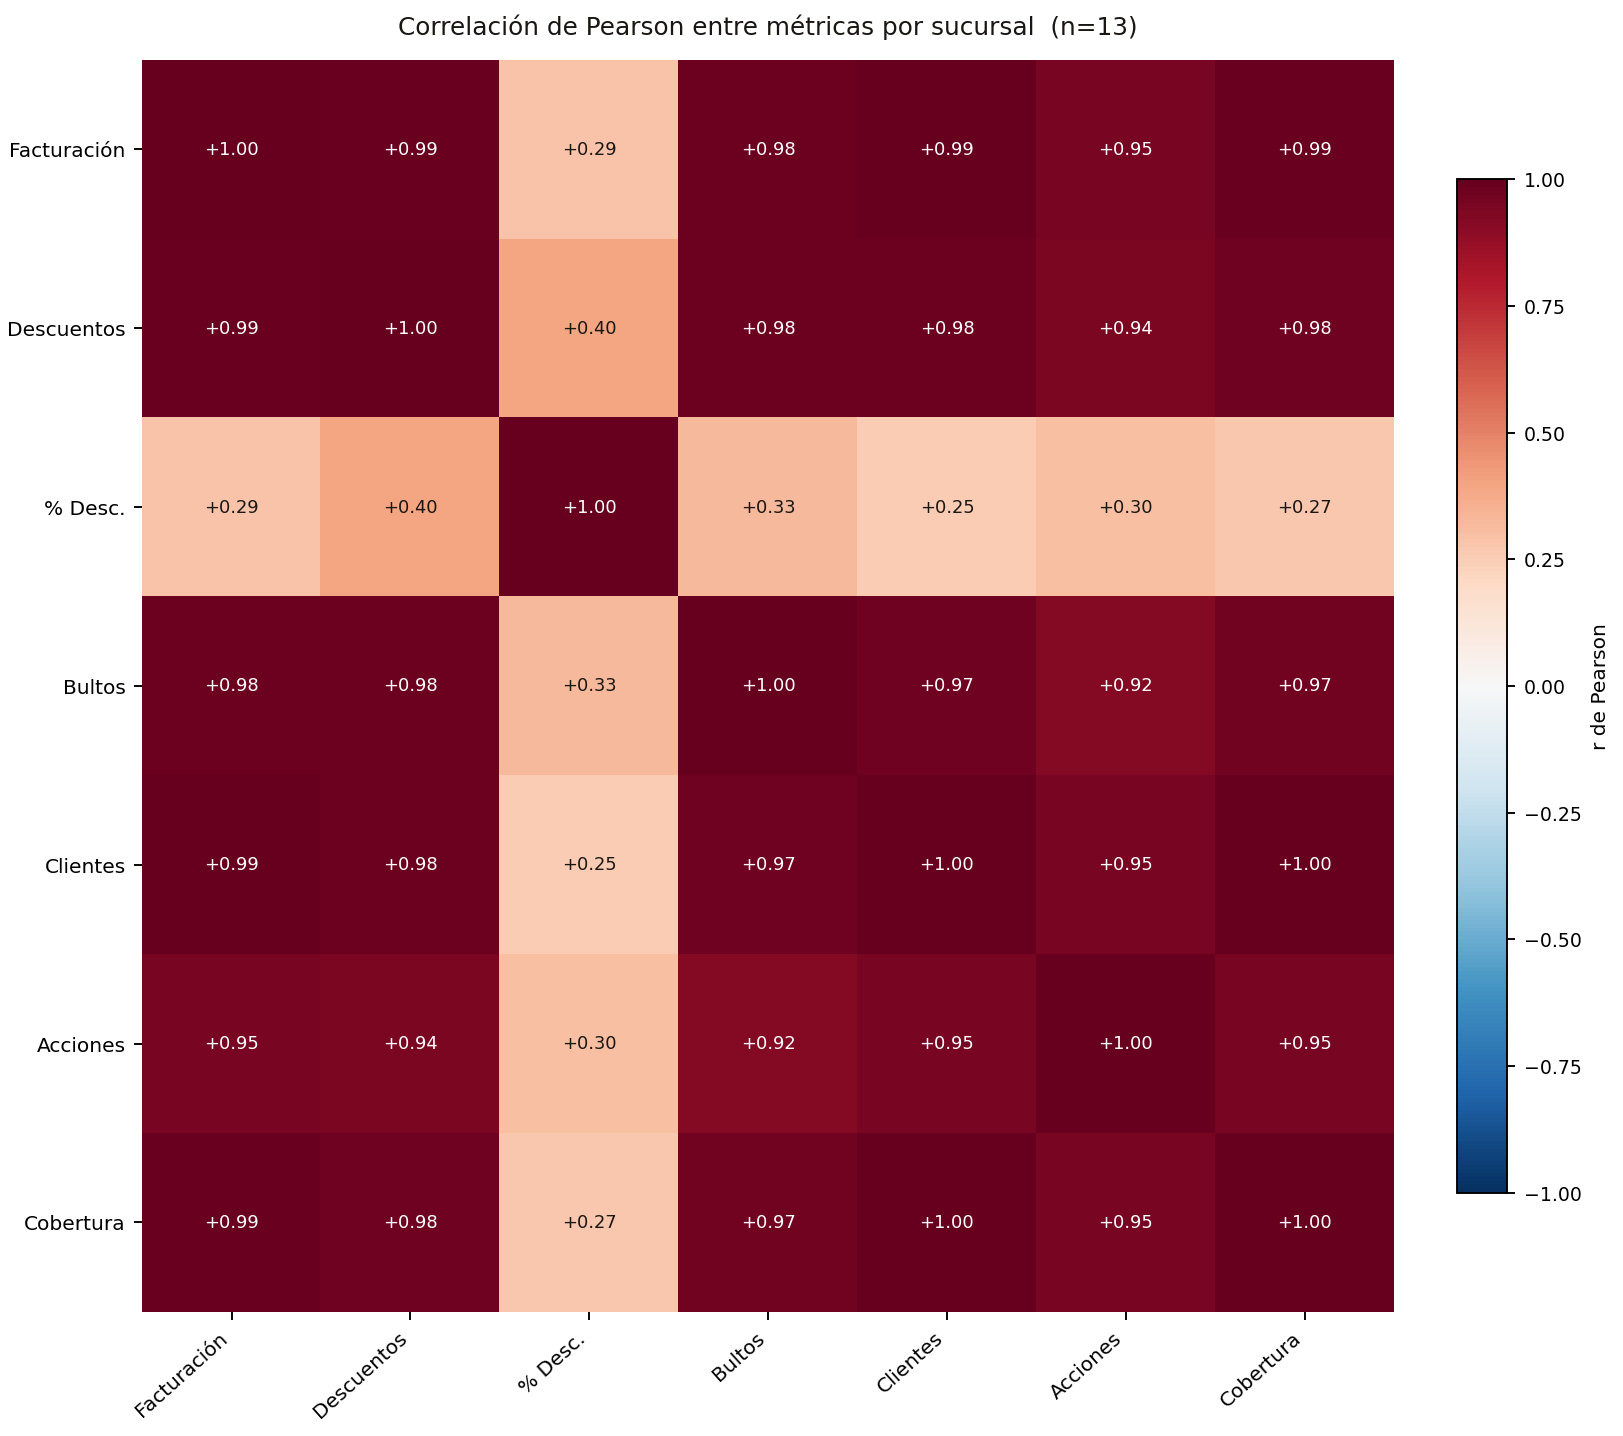
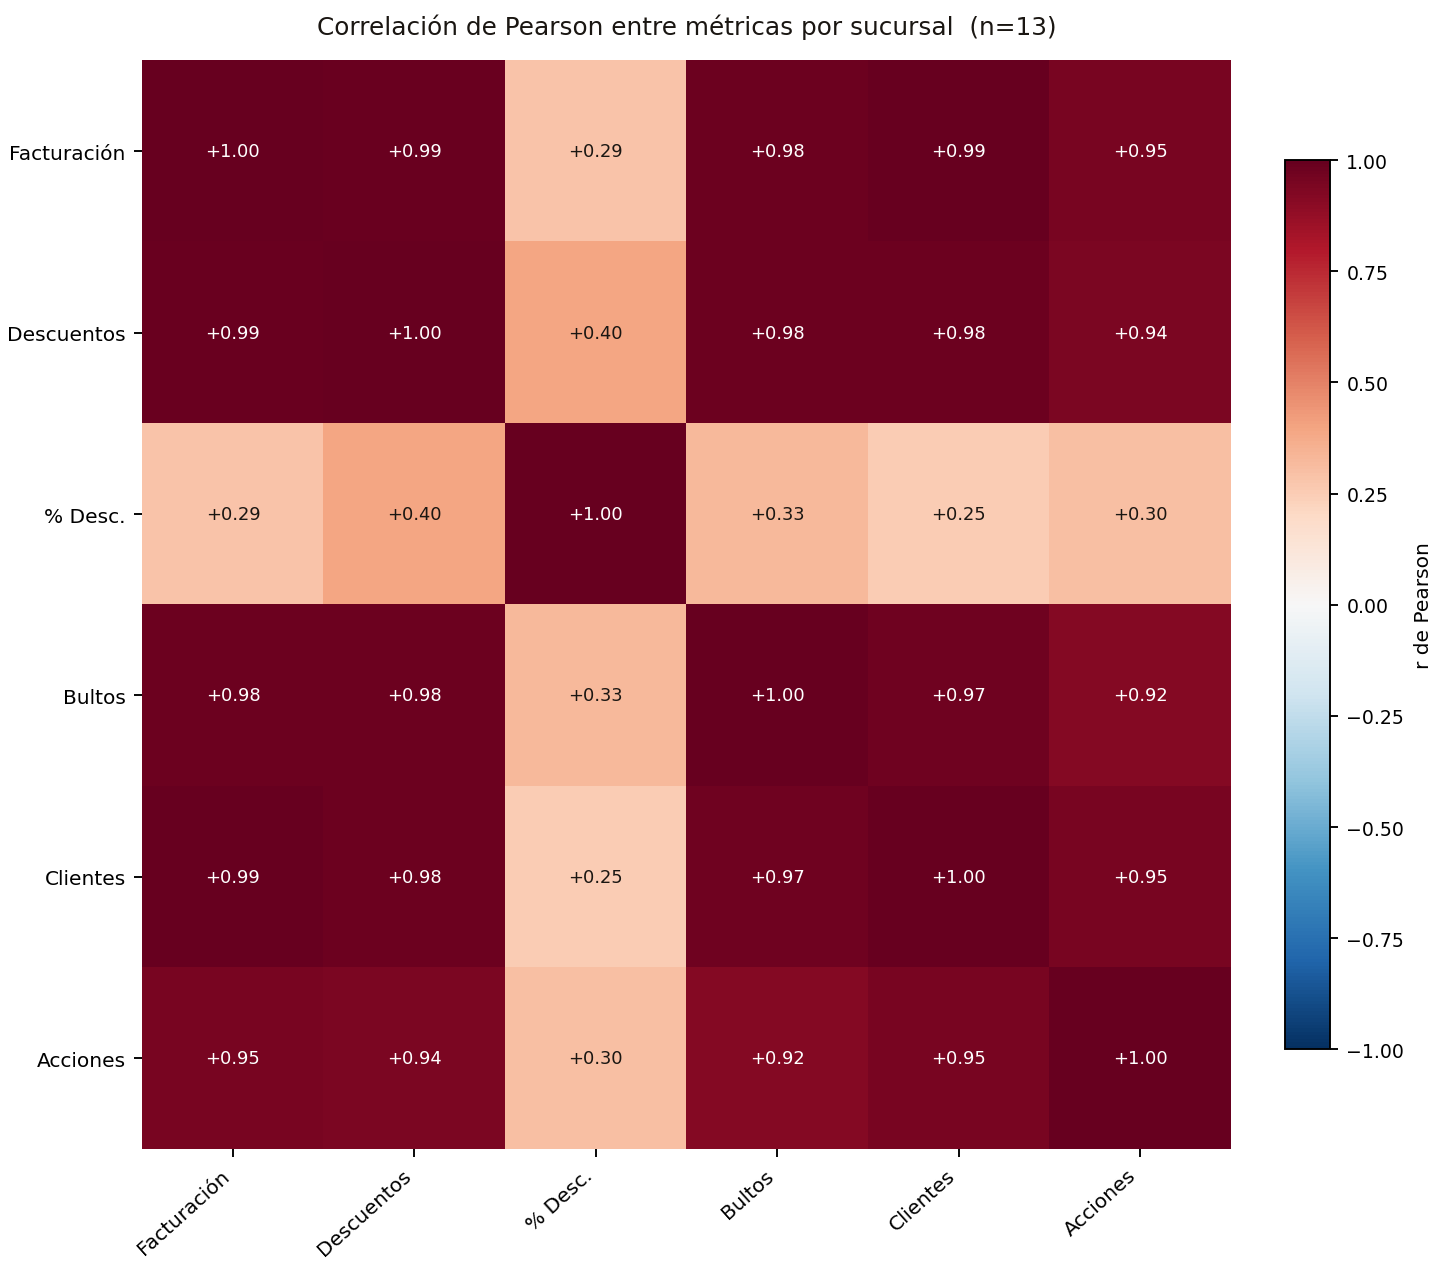
fix(acciones-comerciales): stop summing coverage, and read the report's own month
Three defects in the Cobertura sheet, found by Nahuel.

1. The period was written by hand: `WHERE periodo = '2026-07-01'`. The August
   report has been reading July coverage all month. August exists in the
   table (429 rows). It now derives from the report's own cut, so it cannot
   silently fall a month behind again.

2. Coverage was being summed. `cob.groupby("sucursal").clientes_cob.sum()`
   added up the coverage of every genérico in a sucursal, so a client buying
   four genéricos counted four times: 35,729 against 11,415 real clients,
   +213%. Coverage counts distinct clients inside a cut -- it is not additive
   across genéricos, brands or periods. That column is gone from the
   correlation matrix; the sucursal-level client count already exists,
   counted at the sucursal grain.

   The source also summed across price lists, reading
   cob_sucursal_lista_generico and grouping. Besides double-counting clients
   who buy on two lists, that cut has 130 rows against the 144 of the
   per-genérico cut, so it was also losing combinations. It now reads
   cob_sucursal_generico, already computed at the grain the sheet shows.

3. The table was truncated with `.head(60)` and had no note saying so, so its
   TOTAL row was the total of nothing. There are 120 combinations with sales;
   all of them are listed now.

The "Clientes cob." column carries no total on purpose -- the cell reads "no
sumable" and the footer explains why, so nobody restores the sum later.
[…]

diff --git a/dashboards/acciones-comerciales/build_informe_excel.py b/dashboards/acciones-comerciales/build_informe_excel.py
@@ -604,12 +604,25 @@ def load_gold():
         WHERE fv.fecha_comprobante BETWEEN '{PERIODO_DESDE}' AND '{PERIODO_HASTA}'
           AND fv.anulado = false
         GROUP BY 1,2,3""", dl.engine)
-    cob = pd.read_sql("""
-        SELECT ds_sucursal AS sucursal, generico, des_lista_precio AS lista,
-               SUM(clientes_compradores) AS clientes_cob, SUM(volumen_total) AS volumen
-        FROM gold.cob_sucursal_lista_generico
-        WHERE periodo = '2026-07-01'
-        GROUP BY 1,2,3""", dl.engine)
+    # Cobertura al grano (sucursal, generico), del periodo del informe.
+    #
+    # Dos correcciones respecto de lo que hacia antes:
+    #  1. El periodo estaba escrito a mano ('2026-07-01'). Se deriva del corte,
+    #     asi no puede volver a quedar un mes atras sin que nadie lo note.
+    #  2. Salia de cob_sucursal_lista_generico SUMANDO las listas. La cobertura
+    #     NO es aditiva: el mismo cliente compra en dos listas y se cuenta dos
+    #     veces. Ademas ese corte trae 130 filas contra las 144 del corte por
+    #     generico, o sea que ademas perdia combinaciones. Se lee la tabla que
+    #     ya esta calculada en el grano que se quiere mostrar.
+    periodo_cob = PERIODO_DESDE[:8] + "01"
+    cob = pd.read_sql(f"""
+        SELECT ds_sucursal AS sucursal, generico,
+               clientes_compradores AS clientes_cob, volumen_total AS volumen
+        FROM gold.cob_sucursal_generico
+        WHERE periodo = '{periodo_cob}'""", dl.engine)
+    if cob.empty:
+        print(f"    WARN: no hay cobertura para el periodo {periodo_cob} en "
+              f"gold.cob_sucursal_generico; las columnas de cobertura quedan vacias")
     # Evolucion diaria: facturacion y descuentos POR DIA, abiertos en CCU y
     # resto. Antes esta hoja salia del wapi, que trae SOLO las lineas con
     # accion promocional: la facturacion quedaba corta ($3.424 M contra los
@@ -1880,11 +1893,12 @@ def build(out_path: Path):
     base["Clientes"] = pd.to_numeric(base.Clientes, errors="coerce")
     accs = acc.groupby("sucursal").accion.nunique().rename("Acciones")
     base = base.merge(accs, left_on="Sucursal", right_index=True, how="left")
-    cobs = cob.groupby("sucursal").clientes_cob.sum().rename("Cobertura")
-    base["sn"] = base.Sucursal.str.replace(r"^\d+\s*-\s*", "", regex=True).str.upper().str.strip()
-    base = base.merge(cobs.rename_axis("sn").reset_index().assign(sn=lambda d: d.sn.str.upper().str.strip()),
-                      on="sn", how="left")
-    mat = base[["Facturación", "Descuentos", "% Desc.", "Bultos", "Clientes", "Acciones", "Cobertura"]].astype(float)
+    # Antes: cob.groupby("sucursal").clientes_cob.sum() — sumaba la cobertura de
+    # todos los genericos de la sucursal. Un cliente que compra 4 genericos
+    # contaba 4 veces: daba 35.729 contra 11.415 clientes reales (+213%).
+    # La cobertura de una sucursal es un conteo de clientes distintos, no una
+    # suma de coberturas; `Clientes` ya lo trae contado al grano sucursal.
+    mat = base[["Facturación", "Descuentos", "% Desc.", "Bultos", "Clientes", "Acciones"]].astype(float)
     mat = mat.dropna(axis=1, how="all")
 
     img_corr = IMG_DIR / "corr.png"
@@ -1910,10 +1924,11 @@ def build(out_path: Path):
     ws.sheet_view.showGridLines = False
     widths(ws, {"A": 3, "B": 30, "C": 22, "D": 16, "E": 16, "F": 12, "G": 14})
     r = title(ws, 2, "Cobertura vs presión de descuento",
-              "Fuente C · gold.cob_sucursal_lista_generico + fact_ventas",
-              alcance=ALC_TODOS)
-    cg2 = (cob.groupby(["sucursal", "generico"]).agg(clientes_cob=("clientes_cob", "sum"),
-                                                     volumen=("volumen", "sum")).reset_index())
+              "Fuente C · gold.cob_sucursal_generico + fact_ventas",
+              alcance=(ALC_TODOS + " «Clientes cob.» NO se suma entre filas: la "
+                       "cobertura no es aditiva entre genéricos ni entre sucursales."))
+    # cob ya viene al grano (sucursal, generico): se usa tal cual, sin agregar.
+    cg2 = cob
     vg = ventas.groupby(["sucursal", "generico"]).agg(facturacion=("facturacion", "sum"),
                                                       descuentos=("descuentos", "sum")).reset_index()
     cx = vg.merge(cg2, on=["sucursal", "generico"], how="left")
@@ -1933,10 +1948,20 @@ def build(out_path: Path):
                              "facturacion": "Facturación", "descuentos": "Descuentos",
                              "clientes_cob": "Clientes cob.", "volumen": "Volumen",
                              "pct_desc": "% Desc."}).sort_values("Descuentos", ascending=False)
-    cxo = cxo[["Sucursal", "Genérico", "Facturación", "Descuentos", "% Desc.", "Clientes cob.", "Volumen"]].head(60)
+    # Sin .head(60): antes la tabla se cortaba en 60 filas sin decirlo, asi que
+    # el pie no era el total de nada. Van todas las combinaciones con venta.
+    cxo = cxo[["Sucursal", "Genérico", "Facturación", "Descuentos", "% Desc.", "Clientes cob.", "Volumen"]]
     r = write_df(ws, cxo, r, {"Facturación": F_MONEY, "Descuentos": F_MONEY, "% Desc.": F_PCT,
                               "Clientes cob.": F_INT, "Volumen": F_DEC},
-                 start_col=2, table_name="tblCob")
+                 start_col=2, table_name="tblCob",
+                 no_total=("Clientes cob.", "% Desc."))
+    ws.cell(row=r - 1, column=7, value="no sumable").font = Font(size=8, italic=True, color=BADIE)
+    ws.cell(row=r, column=2, value=(
+        f"{len(cxo):,} combinaciones sucursal × genérico con venta en el período. "
+        "La columna «Clientes cob.» no lleva total: la cobertura cuenta clientes distintos "
+        "dentro de su corte y sumarla entre genéricos cuenta al mismo cliente una vez por "
+        "genérico que compró. Los clientes distintos de la empresa están en «Sucursales»."
+    )).font = Font(size=9, italic=True, color=INK_MUTE)
 
     # ============ 12. CLIENTES ============
     ws = wb.create_sheet("Clientes")
